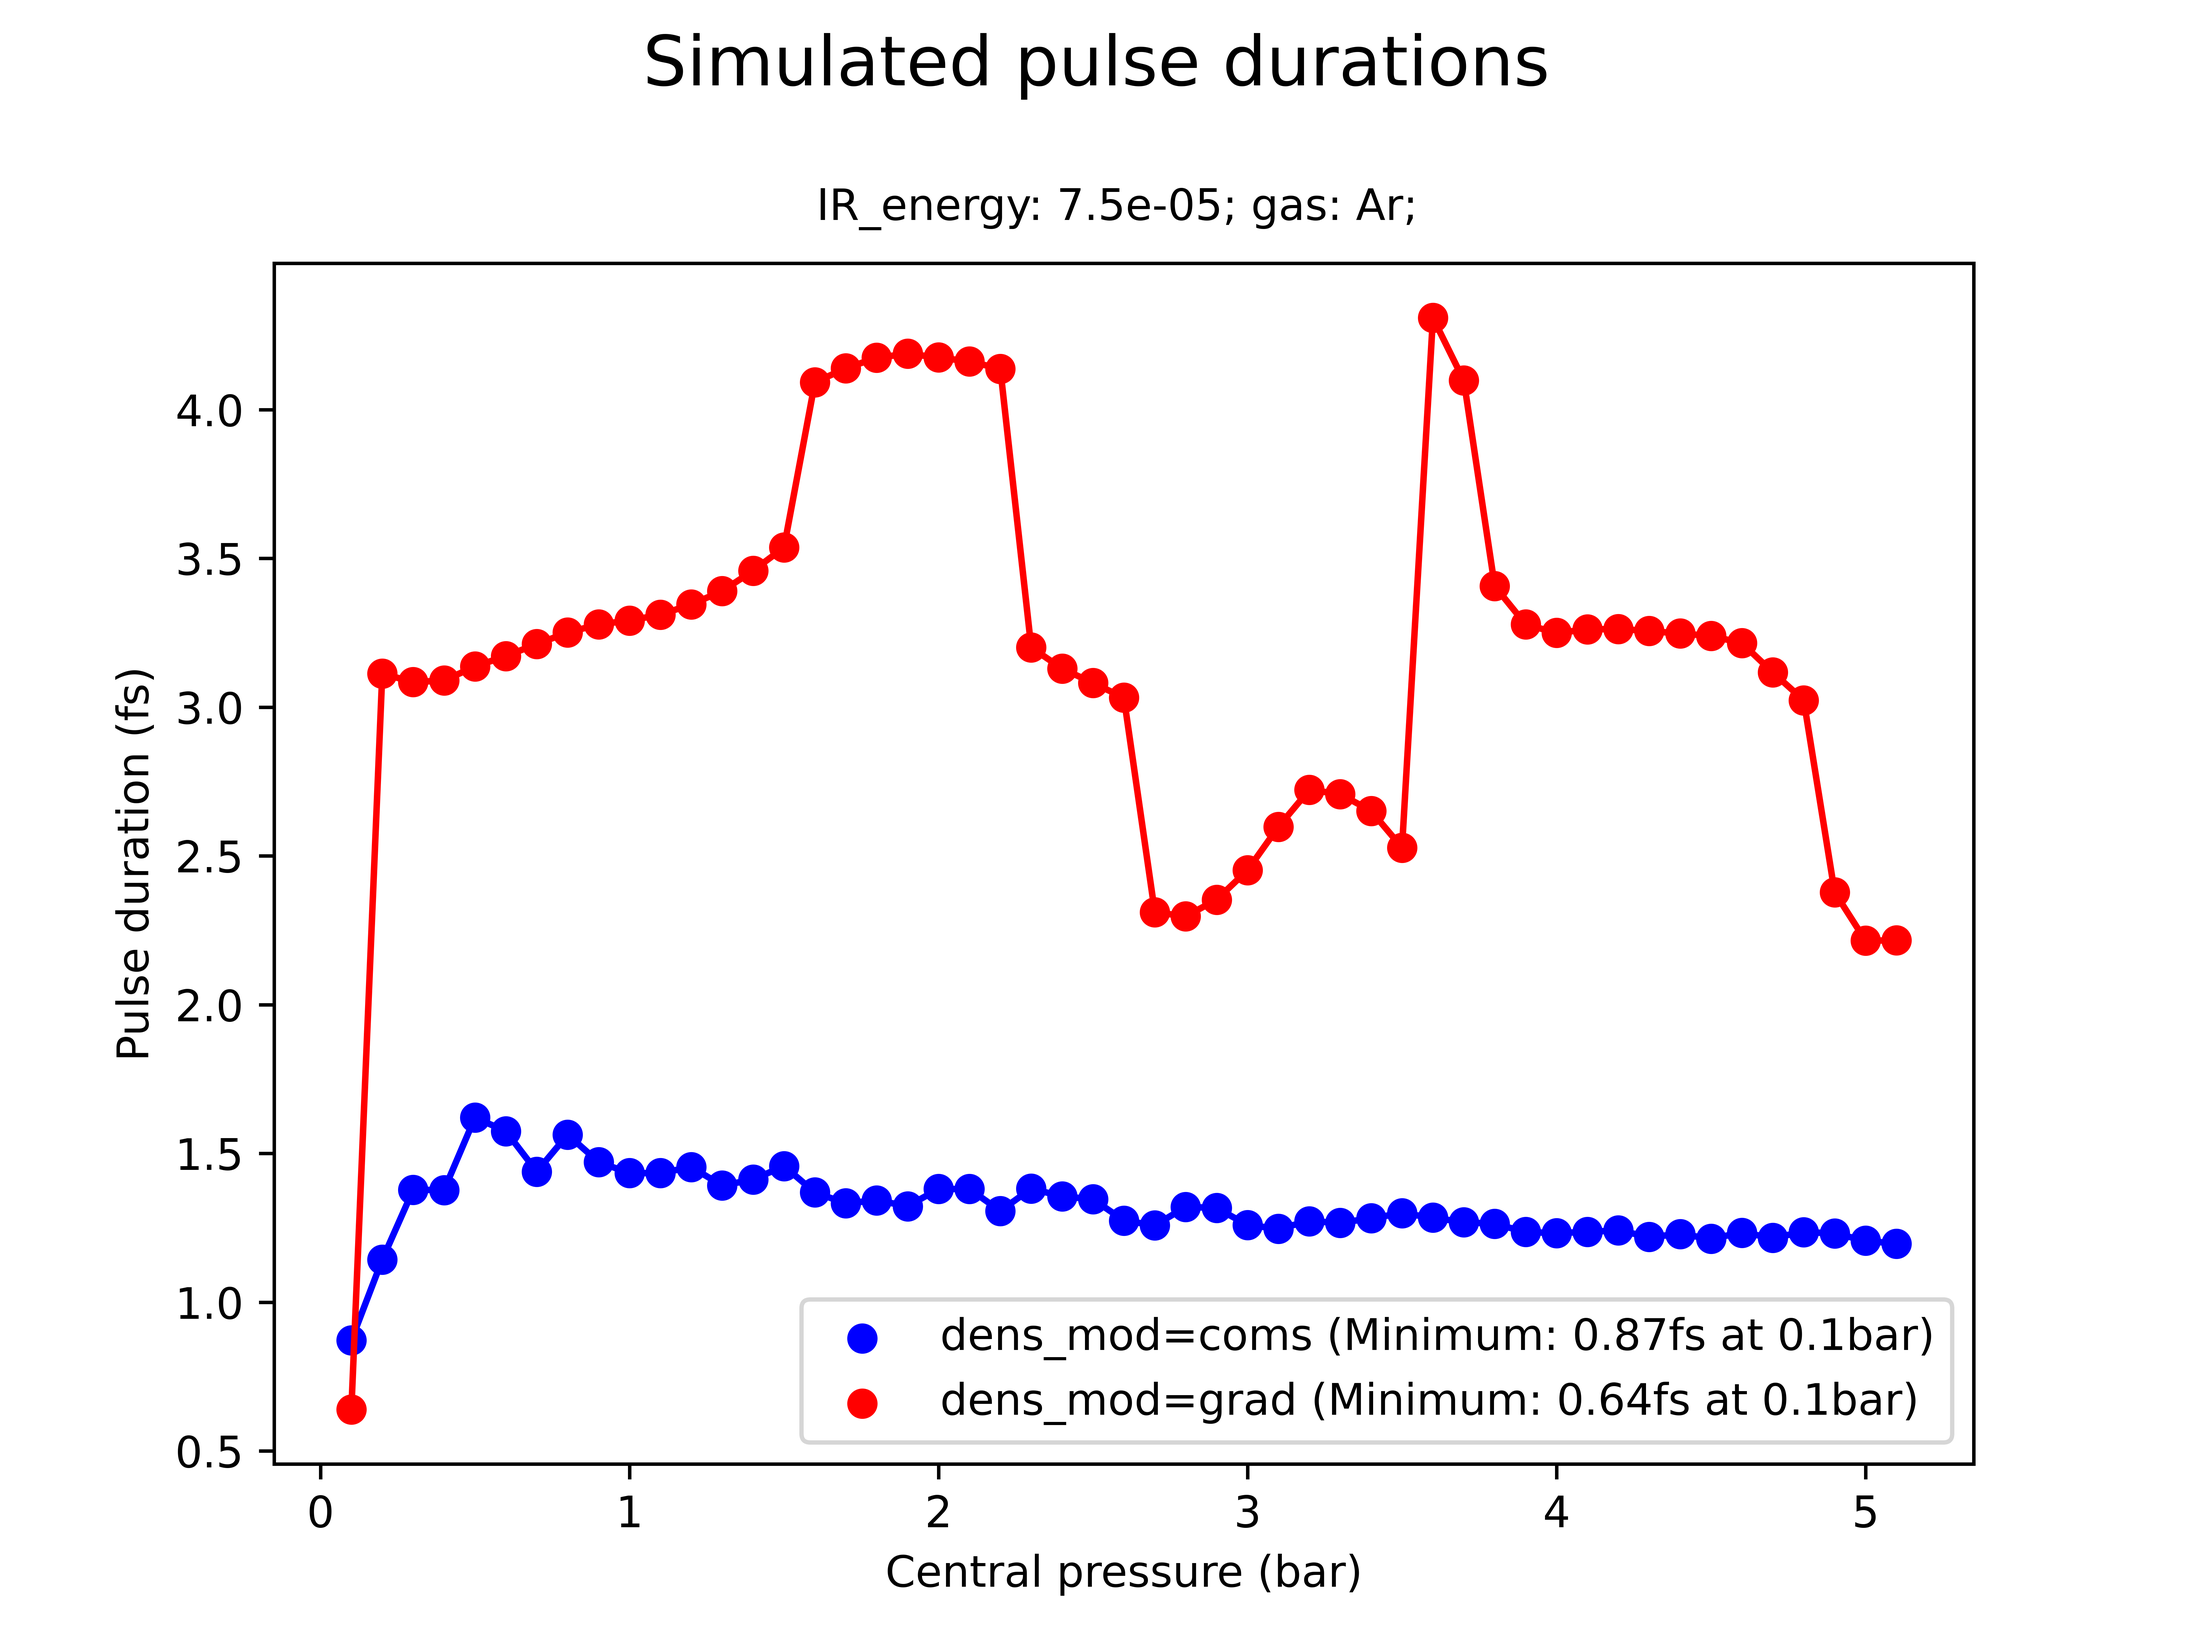
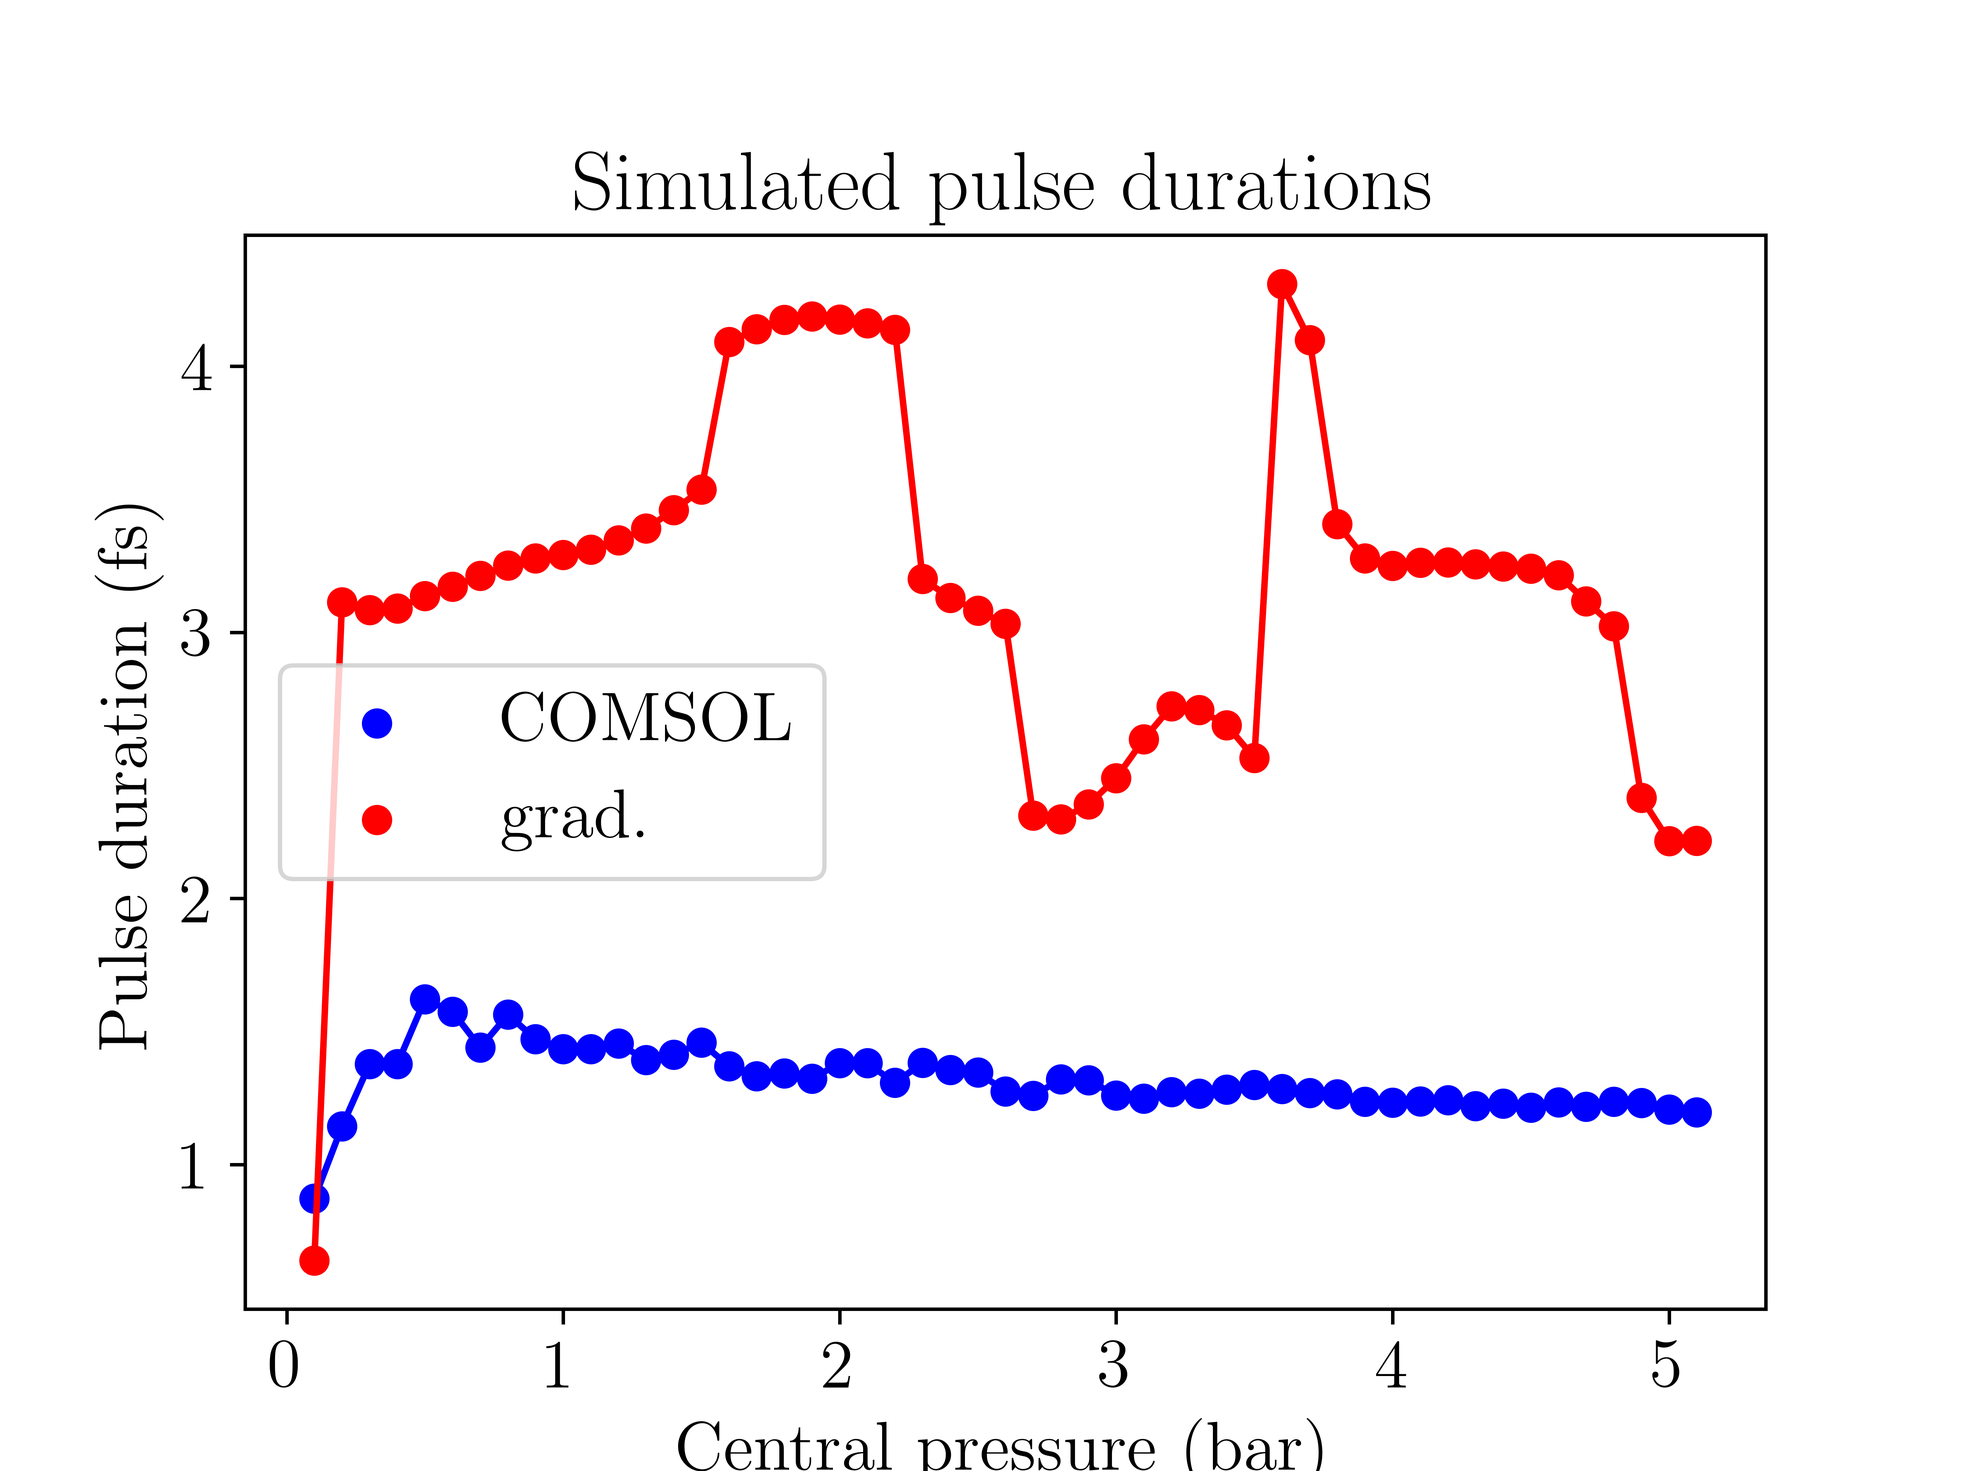
more updates

diff --git a/scan_eval.py b/scan_eval.py
@@ -510,16 +510,36 @@ def plot_double(scan_dir, second_var,**kwargs):
     p_arr2, UVen_arr2, ef_arr2, tau_arr2, zpeak_arr2 = get_data(paths[1])
     peak_arr2 = get_peaks(paths[1])
 
-    gas, dens_mod, tau, lam0, w0, CEP, IR_energy, ion, propz, GVD, thickness, ion_mod, IR_int
-
     # set labels
     if second_var[0]=="gas": 
         label1 = second_var[1]
         label2 = second_var[2]
     elif second_var[0]=="dens_mod":
+        if second_var[1]=="coms":
+            label1="COMSOL"
+            label2="grad."
+        else:
+            label1="grad."
+            label2="COMSOL"
+    elif second_var[0]=="ion":
+        if second_var[1]=="true":
+            label1="ion."
+            label2="no ion."
+        else:
+            label1="no ion."
+            label2="ion." 
+    elif second_var[0]=="ion_mod":
+        if second_var[1]=="ADK":
+            label1="ADK"
+            label2="PPT"
+        else:
+            label1="PPT"
+            label2="ADK"
+    else:
+        label1=second_var[1]
+        label2=second_var[2]                                   
 
-
-    # set subtitle and output string
+    # set output string
     out_dir_str=""
     for key, val in kwargs.items():
         out_dir_str += key+"="+str(val)+"_"
@@ -535,7 +555,7 @@ def plot_double(scan_dir, second_var,**kwargs):
     fig_dim = [2 * 3.14961,2* 2.3622075] # for 8cm width ; double for 16cm width
 
     plt.figure(figsize=fig_dim) 
-    plt.subplots_adjust(top=0.84)
+    plt.subplots_adjust(top=0.9, bottom=0.15)
     if show_title: plt.title("Simulated UV energies")
     plt.ylabel("Energy (nJ)")
     plt.xlabel("Central pressure (bar)")
@@ -549,9 +569,9 @@ def plot_double(scan_dir, second_var,**kwargs):
     if show: plt.show()
 
     plt.figure(figsize=fig_dim) 
-    plt.subplots_adjust(top=0.84)
+    plt.subplots_adjust(top=0.9, bottom=0.15)
     if show_title: plt.title("Simulated THG efficiencies")
-    plt.ylabel("Efficiency (%)")
+    plt.ylabel("Efficiency (\%)")
     plt.xlabel("Central pressure (bar)")
     plt.plot(p_arr, ef_arr*1e2, color="blue")
     plt.scatter(p_arr, ef_arr*1e2, color="blue", label=label1)
@@ -564,7 +584,7 @@ def plot_double(scan_dir, second_var,**kwargs):
 
     if old==False:
         plt.figure(figsize=fig_dim) 
-        plt.subplots_adjust(top=0.84)
+        plt.subplots_adjust(top=0.9, bottom=0.15)
         if show_title: plt.title("Simulated pulse durations")
         plt.ylabel("Pulse duration (fs)")
         plt.xlabel("Central pressure (bar)")
@@ -578,7 +598,7 @@ def plot_double(scan_dir, second_var,**kwargs):
         if show: plt.show()
 
         plt.figure(figsize=fig_dim) 
-        plt.subplots_adjust(top=0.84)
+        plt.subplots_adjust(top=0.9, bottom=0.15)
         if show_title: plt.title("Position of peak UV energy")
         plt.ylabel("Position (mm)")
         plt.xlabel("Central pressure (bar)")
@@ -605,11 +625,9 @@ def plot_multipower(sup_dir, second_var=(None, None, None), **kwargs):
     else:
         bool_sec_var = False   
 
-    # set output directory name and title string (show kwargs on plot)
-    title_str = ""
+    # set output directory name 
     out_dir_str=""
     for key, val in kwargs.items():
-        title_str += key+": "+str(val)+"; "
         out_dir_str += key+"="+str(val)+"_"     
 
     # get data and params
@@ -623,6 +641,34 @@ def plot_multipower(sup_dir, second_var=(None, None, None), **kwargs):
         if len(path_arr) != len(path_arr2):
             raise SystemExit("Error: the selected files with '{0}={1}' cannot be matched up with the files with '{0}={2}'. The selected files should only differ in '{0}' and there should be a corresponding '{0}={1}' file for each '{0}={2}' file.".format(second_var[0],second_var[1],second_var[2]))
 
+        # set labels
+        if second_var[0]=="gas": 
+            label1 = second_var[1]
+            label2 = second_var[2]
+        elif second_var[0]=="dens_mod":
+            if second_var[1]=="coms":
+                label1="COMSOL"
+                label2="grad."
+            else:
+                label1="grad."
+                label2="COMSOL"
+        elif second_var[0]=="ion":
+            if second_var[1]=="true":
+                label1="ion."
+                label2="no ion."
+            else:
+                label1="no ion."
+                label2="ion." 
+        elif second_var[0]=="ion_mod":
+            if second_var[1]=="ADK":
+                label1="ADK"
+                label2="PPT"
+            else:
+                label1="PPT"
+                label2="ADK"
+        else:
+            label1=second_var[1]
+            label2=second_var[2]
     else:
         path_arr, IR_energy_arr, IR_int_arr = power_comparison_get(sup_dir,**kwargs)    
 
@@ -653,22 +699,28 @@ def plot_multipower(sup_dir, second_var=(None, None, None), **kwargs):
     def i2p(I):
         return I * (np.pi * (w0*1e2)**2 * tau ) *1e15 *1e6
     
+    # set plot formatting 
+    if disable_latex == False : plt.rcParams["text.usetex"] = True   # enable LaTeX renadering
+    plt.rcParams["mathtext.fontset"] = "cm" # use LateX font for maths
+    plt.rcParams["font.family"] = "STIXGeneral" # use LateX font for text
+    plt.rcParams["font.size"] = 16 # set standard font size 
+    fig_dim = [2 * 3.14961,2* 2.3622075] # for 8cm width ; double for 16cm width
+
     # PLOT 1: energy vs pressure 
     cmap = plt.get_cmap("viridis")
     cidx = IR_energy_arr / np.max(IR_energy_arr) 
 
     plt.figure(figsize=fig_dim) 
-    if show_title: plt.suptitle("Simulated UV energies", fontsize=16)
-    plt.title(title_str, fontsize=10)
+    if show_title: plt.title("Simulated UV energies")
     plt.ylabel("Energy (nJ)")
     plt.xlabel("Central pressure (bar)")
     
     for i in np.arange(N):
 
         if bool_sec_var:
-            plt.scatter(p_arr[i], UVen_arr[i]*1e9, color=cmap(cidx[i]), label="{0}mW ({1:.1f}PW/cm^2); {2}={3}".format(IR_energy_arr[i]*1e6, 1e-15*IR_int_arr[i], second_var[0],second_var[1]))
+            plt.scatter(p_arr[i], UVen_arr[i]*1e9, color=cmap(cidx[i]), label=label1)
             plt.plot(p_arr[i], UVen_arr[i]*1e9, color=cmap(cidx[i]))
-            plt.scatter(p_arr2[i], UVen_arr2[i]*1e9, color=cmap(cidx[i]),marker="+", label="{0}mW ({1:.1f}PW/cm^2); {2}={3}".format(IR_energy_arr2[i]*1e6, 1e-15*IR_int_arr2[i],second_var[0],second_var[2]))
+            plt.scatter(p_arr2[i], UVen_arr2[i]*1e9, color=cmap(cidx[i]),marker="+", label=label2)
             plt.plot(p_arr2[i], UVen_arr2[i]*1e9, ls="--", color=cmap(cidx[i]))
         else:
             plt.scatter(p_arr[i], UVen_arr[i]*1e9, color=cmap(cidx[i]), label="{0}mW ({1:.1f}PW/cm^2)".format(IR_energy_arr[i]*1e6, 1e-15*IR_int_arr[i]))
@@ -680,17 +732,16 @@ def plot_multipower(sup_dir, second_var=(None, None, None), **kwargs):
 
     # PLOT 2: efficiency vs pressure 
     plt.figure(figsize=fig_dim) 
-    if show_title: plt.suptitle("Simulated THG efficiencies", fontsize=16)
-    plt.title(title_str, fontsize=10)
-    plt.ylabel("Efficiency (%)")
+    if show_title: plt.title("Simulated THG efficiencies")
+    plt.ylabel("Efficiency (\%)")
     plt.xlabel("Central pressure (bar)")
     
     for i in np.arange(len(path_arr)):
         
         if bool_sec_var:
-            plt.scatter(p_arr[i], ef_arr[i]*1e2, color=cmap(cidx[i]), label="{0}mW ({1:.1f}PW/cm^2); {2}={3}".format(IR_energy_arr[i]*1e6, 1e-15*IR_int_arr[i], second_var[0],second_var[1]))
+            plt.scatter(p_arr[i], ef_arr[i]*1e2, color=cmap(cidx[i]), label=label1)
             plt.plot(p_arr[i], ef_arr[i]*1e2, color=cmap(cidx[i]))
-            plt.scatter(p_arr2[i],ef_arr2[i]*1e2, color=cmap(cidx[i]),marker="+", label="{0}mW ({1:.1f}PW/cm^2); {2}={3}".format(IR_energy_arr2[i]*1e6, 1e-15*IR_int_arr2[i],second_var[0],second_var[2]))
+            plt.scatter(p_arr2[i],ef_arr2[i]*1e2, color=cmap(cidx[i]),marker="+", label=label2)
             plt.plot(p_arr2[i], ef_arr2[i]*1e2, ls="--", color=cmap(cidx[i]))
         else:
             plt.scatter(p_arr[i], ef_arr[i]*1e2, color=cmap(cidx[i]), label="{0}mW ({1:.1f}PW/cm^2)".format(IR_energy_arr[i]*1e6, 1e-15*IR_int_arr[i]))
@@ -703,16 +754,15 @@ def plot_multipower(sup_dir, second_var=(None, None, None), **kwargs):
     # PLOT 3: pulse duration vs pressure
     if old==False:  
         plt.figure(figsize=fig_dim) 
-        if show_title: plt.suptitle("Simulated UV pulse durations", fontsize=16)
-        plt.title(title_str, fontsize=10)
+        if show_title: plt.title("Simulated UV pulse durations")
         plt.ylabel("Pulse duration (fs)")
         plt.xlabel("Central pressure (bar)")
         
         for i in np.arange(len(path_arr)):
             if bool_sec_var:
-                plt.scatter(p_arr[i], tau_arr[i]*1e15, color=cmap(cidx[i]), label="{0}mW ({1:.1f}PW/cm^2); {2}={3}".format(IR_energy_arr[i]*1e6, 1e-15*IR_int_arr[i], second_var[0],second_var[1]))
+                plt.scatter(p_arr[i], tau_arr[i]*1e15, color=cmap(cidx[i]), label=label1)
                 plt.plot(p_arr[i], tau_arr[i]*1e15, color=cmap(cidx[i]))
-                plt.scatter(p_arr2[i],tau_arr2[i]*1e15,marker="+", color=cmap(cidx[i]), label="{0}mW ({1:.1f}PW/cm^2); {2}={3}".format(IR_energy_arr2[i]*1e6, 1e-15*IR_int_arr2[i],second_var[0],second_var[2]))
+                plt.scatter(p_arr2[i],tau_arr2[i]*1e15,marker="+", color=cmap(cidx[i]), label=label2)
                 plt.plot(p_arr2[i], tau_arr2[i]*1e15,ls="--", color=cmap(cidx[i]))
             else:
                 plt.scatter(p_arr[i], tau_arr[i]*1e15, color=cmap(cidx[i]), label="{0}mW ({1:.1f}PW/cm^2)".format(IR_energy_arr[i]*1e6, 1e-15*IR_int_arr[i]))
@@ -725,17 +775,16 @@ def plot_multipower(sup_dir, second_var=(None, None, None), **kwargs):
     # PLOT 4: z_peak vs pressure 
     if old==False:
         plt.figure(figsize=fig_dim) 
-        if show_title: plt.suptitle("Position of peak UV energy", fontsize=16)
-        plt.title(title_str, fontsize=10)
+        if show_title: plt.title("Position of peak UV energy")
         plt.ylabel("Position (mm)")
         plt.xlabel("Central pressure (bar)")
         
         for i in np.arange(len(path_arr)):
 
             if bool_sec_var:
-                plt.scatter(p_arr[i], zpeak_arr[i]*1e3, color=cmap(cidx[i]), label="{0}mW ({1:.1f}PW/cm^2); {2}={3}".format(IR_energy_arr[i]*1e6, 1e-15*IR_int_arr[i], second_var[0],second_var[1]))
+                plt.scatter(p_arr[i], zpeak_arr[i]*1e3, color=cmap(cidx[i]), label=label1)
                 plt.plot(p_arr[i], zpeak_arr[i]*1e3, color=cmap(cidx[i]))
-                plt.scatter(p_arr2[i],zpeak_arr2[i]*1e3,marker="+", color=cmap(cidx[i]), label="{0}mW ({1:.1f}PW/cm^2); {2}={3}".format(IR_energy_arr2[i]*1e6, 1e-15*IR_int_arr2[i],second_var[0],second_var[2]))
+                plt.scatter(p_arr2[i],zpeak_arr2[i]*1e3,marker="+", color=cmap(cidx[i]), label=label2)
                 plt.plot(p_arr2[i], zpeak_arr2[i]*1e3,ls="--", color=cmap(cidx[i]))
             else:
                 plt.scatter(p_arr[i], zpeak_arr[i]*1e3, color=cmap(cidx[i]), label="{0}mW ({1:.1f}PW/cm^2)".format(IR_energy_arr[i]*1e6, 1e-15*IR_int_arr[i]))
